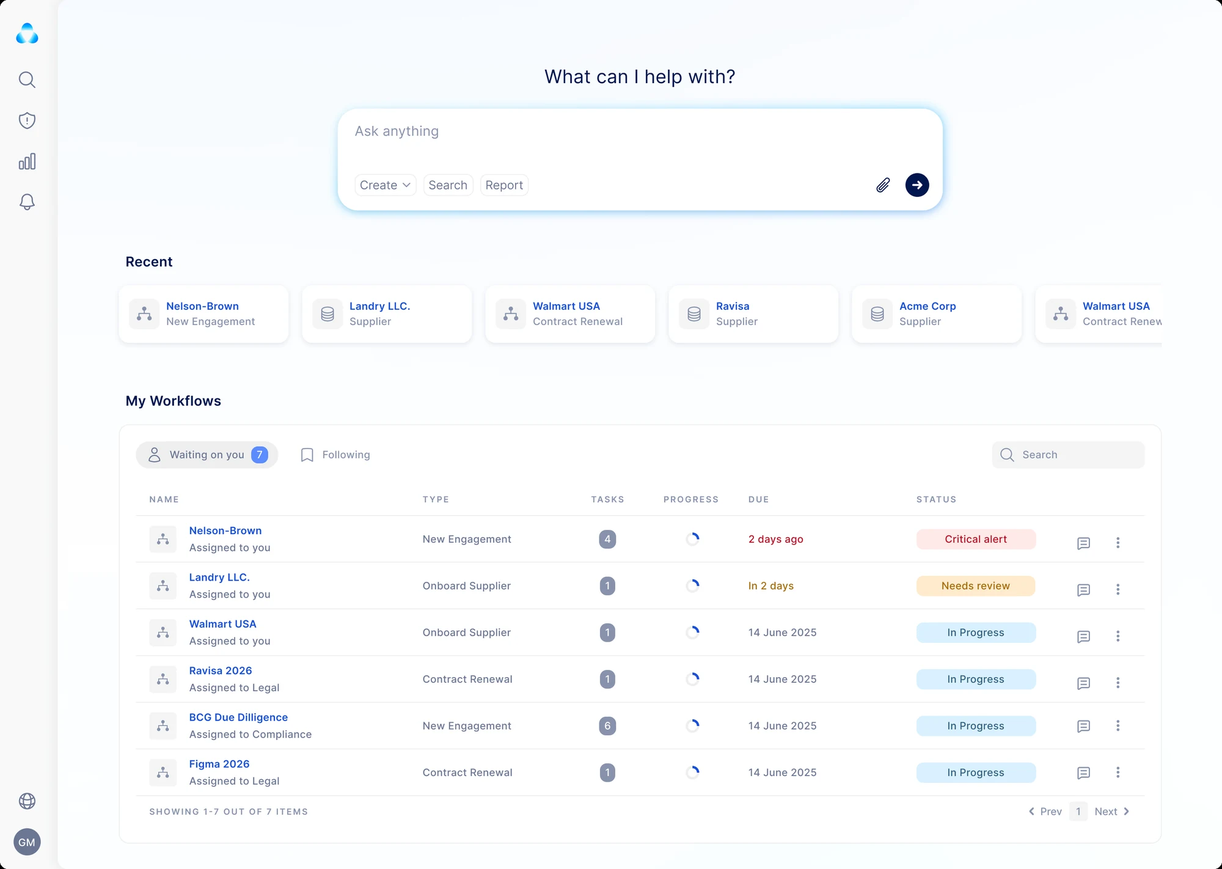
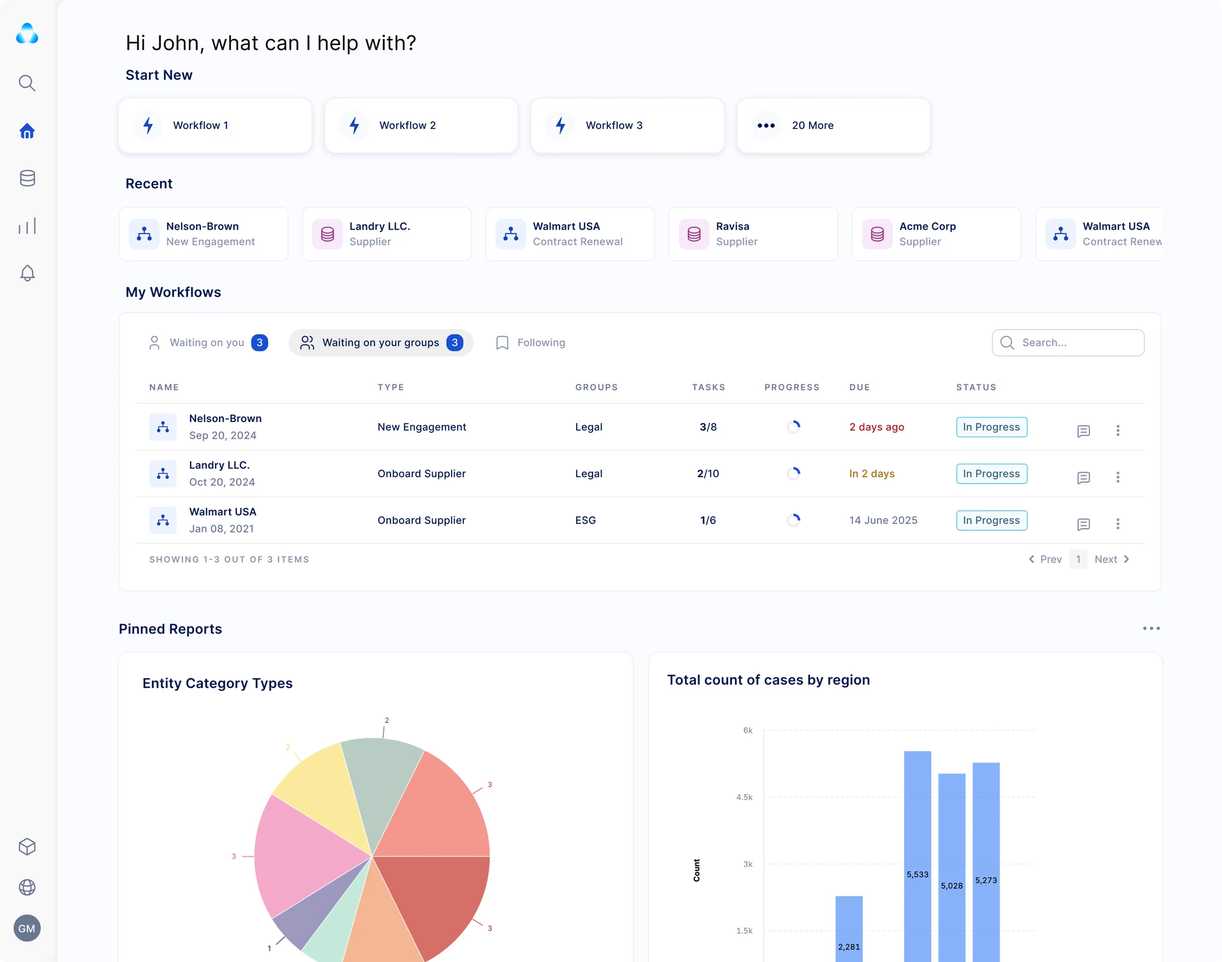
Replace Certa.ai Dashboard design
Claude-Session: https://claude.ai/code/session_01YTA3z88RNX2L7PgnX6PkBH

diff --git a/work.html b/work.html
@@ -40,7 +40,7 @@
 <meta name="twitter:title" content="Work — Ahila Pillai, Product &amp; Visual Designer">
 <meta name="twitter:description" content="Product and visual designer for startups: UX/UI for web and mobile apps, dashboards, pitch decks, brand identity, landing pages and motion for AI, SaaS, Web3 and fintech companies.">
 <meta name="twitter:image" content="https://madebyahila.com/og-image.jpg">
-<script type="application/ld+json">{"@context":"https://schema.org","@graph":[{"@type":"WebSite","@id":"https://madebyahila.com/#website","url":"https://madebyahila.com/","name":"Ahila Pillai — Product & Visual Designer","inLanguage":"en","publisher":{"@id":"https://madebyahila.com/#person"}},{"@type":"CollectionPage","@id":"https://madebyahila.com/work.html#page","url":"https://madebyahila.com/work.html","name":"Work — Ahila Pillai","isPartOf":{"@id":"https://madebyahila.com/#website"},"about":{"@id":"https://madebyahila.com/#person"},"mainEntity":{"@id":"https://madebyahila.com/#work"},"dateModified":"2026-11-09"},{"@type":"Person","@id":"https://madebyahila.com/#person","name":"Ahila Pillai","givenName":"Ahila","familyName":"Pillai","jobTitle":"Product & Visual Designer","url":"https://madebyahila.com/","image":"https://madebyahila.com/assets/ahila-pillai-illustrated-portrait.webp","email":"mailto:ahilapil.26@gmail.com","description":"Product and visual designer for startups. She designs web and mobile apps, dashboards, design systems, pitch decks, brand identities, landing pages and motion for AI, SaaS, Web3 and fintech companies, and has built her own AI apps.","address":{"@type":"PostalAddress","addressLocality":"Bengaluru","addressRegion":"Karnataka","addressCountry":"IN"},"knowsAbout":["Dashboard design","Mobile app design","UX/UI design","Product design","Visual design","Graphic design","Illustration","Motion design","Brand identity","Visual systems","Pitch deck design","Presentation design","Landing page design","Web design","Social media design","Web3","Fintech","AI startups","E-commerce","Figma","Adobe Photoshop","Adobe Illustrator","Design systems","SaaS","B2B SaaS","AI apps"],"sameAs":["https://x.com/ahilapillai","https://www.linkedin.com/in/ahilapillai","https://www.youtube.com/@ahilapillai7001"],"homeLocation":{"@type":"Place","name":"Bengaluru, India"},"hasOccupation":{"@type":"Occupation","name":"Product Designer","occupationLocation":{"@type":"City","name":"Bengaluru"},"skills":"UX/UI design, product design, design systems, visual design, branding, pitch decks, motion design"},"seeks":{"@type":"Demand","description":"Remote freelance, contract and part-time product design work with startups, especially B2B SaaS and AI companies."},"makesOffer":[{"@type":"Offer","itemOffered":{"@type":"Service","name":"Product and app design (web apps, dashboards, mobile apps)","provider":{"@id":"https://madebyahila.com/#person"},"areaServed":"Worldwide"}},{"@type":"Offer","itemOffered":{"@type":"Service","name":"UX/UI design and design systems","provider":{"@id":"https://madebyahila.com/#person"},"areaServed":"Worldwide"}},{"@type":"Offer","itemOffered":{"@type":"Service","name":"Pitch deck and presentation design","provider":{"@id":"https://madebyahila.com/#person"},"areaServed":"Worldwide"}},{"@type":"Offer","itemOffered":{"@type":"Service","name":"Brand identity and visual systems","provider":{"@id":"https://madebyahila.com/#person"},"areaServed":"Worldwide"}},{"@type":"Offer","itemOffered":{"@type":"Service","name":"Landing page and marketing website design","provider":{"@id":"https://madebyahila.com/#person"},"areaServed":"Worldwide"}},{"@type":"Offer","itemOffered":{"@type":"Service","name":"Social media and campaign design","provider":{"@id":"https://madebyahila.com/#person"},"areaServed":"Worldwide"}},{"@type":"Offer","itemOffered":{"@type":"Service","name":"Illustration and motion design","provider":{"@id":"https://madebyahila.com/#person"},"areaServed":"Worldwide"}}]},{"@type":"ItemList","@id":"https://madebyahila.com/#work","name":"Selected work by Ahila Pillai","numberOfItems":34,"itemListElement":[{"@type":"ListItem","item":{"@type":"CreativeWork","name":"Certa.ai - RiskAgent","description":"Certa.ai RiskAgent evaluation screen with overall risk rating and control assessment by risk domain","image":"https://madebyahila.com/assets/ai-risk-agent-evaluation-full.webp","creator":{"@id":"https://madebyahila.com/#person"},"genre":"Product and app design"},"position":1},{"@type":"ListItem","item":{"@type":"CreativeWork","name":"Certa.ai Dashboard","description":"Certa.ai dashboard with ask-anything prompt, recent records and a workflows table","image":"https://madebyahila.com/assets/ai-risk-workflow-dashboard-full.webp","creator":{"@id":"https://madebyahila.com/#person"},"genre":"Product and app design"},"position":2},{"@type":"ListItem","item":{"@type":"CreativeWork","name":"Saagas.ai","description":"Saagas.ai AI art creator web app with filters, controls and a colour picker","image":"https://madebyahila.com/assets/saagas-ai-art-creator-app-full.webp","creator":{"@id":"https://madebyahila.com/#person"},"genre":"Product and app design"},"position":3},{"@type":"ListItem","item":{"@type":"CreativeWork","name":"Persona Dashboard","description":"Persona advertiser dashboard with impressions chart and campaign table","image":"https://madebyahila.com/assets/persona-advertiser-dashboard-full.webp","creator":{"@id":"https://madebyahila.com/#person"},"genre":"Product and app design"},"position":4},{"@type":"ListItem","item":{"@type":"CreativeWork","name":"Kami Care Mobile App","description":"Kami Care fall detection mobile app: camera setup, alerts and care circle screens","image":"https://madebyahila.com/assets/kami-care-fall-detection-mobile-app-full.webp","creator":{"@id":"https://madebyahila.com/#person"},"genre":"Product and app design"},"position":5},{"@type":"ListItem","item":{"@type":"CreativeWork","name":"Karncy Fintech App","description":"Karncy fintech app Explore Deals screen for invoice investments","image":"https://madebyahila.com/assets/karncy-fintech-invoice-deals-app-full.webp","creator":{"@id":"https://madebyahila.com/#person"},"genre":"Product and app design"},"position":6},{"@type":"ListItem","position":7,"item":{"@type":"CreativeWork","name":"Pitch Deck","description":"Pitch deck slide with a cost-of-operations bar chart","image":"https://madebyahila.com/assets/pitch-deck.webp","creator":{"@id":"https://madebyahila.com/#person"},"genre":"Presentation design"}},{"@type":"ListItem","position":8,"item":{"@type":"CreativeWork","name":"Deck Redesign","description":"Redesigned deck slide for Lyzr, an enterprise AI agent platform","image":"https://madebyahila.com/assets/deck-redesign-lyzr-agent-platform.webp","creator":{"@id":"https://madebyahila.com/#person"},"genre":"Presentation design"}},{"@type":"ListItem","position":9,"item":{"@type":"CreativeWork","name":"Deck Redesign","description":"Redesigned deck slide on governing enterprise AI agents","image":"https://madebyahila.com/assets/deck-redesign-agent-governance.webp","creator":{"@id":"https://madebyahila.com/#person"},"genre":"Presentation design"}},{"@type":"ListItem","position":10,"item":{"@type":"CreativeWork","name":"Sales Enablement Deck","description":"CUBE3 sales enablement slide on Web3 smart contract security","image":"https://madebyahila.com/assets/sales-enablement-deck-cube3.webp","creator":{"@id":"https://madebyahila.com/#person"},"genre":"Presentation design"}},{"@type":"ListItem","position":11,"item":{"@type":"CreativeWork","name":"Persona — Platform Overview","description":"Persona Web3 native ads platform overview slide","image":"https://madebyahila.com/assets/persona-web3-ads-platform-overview-slide.webp","creator":{"@id":"https://madebyahila.com/#person"},"genre":"Presentation design"}},{"@type":"ListItem","position":12,"item":{"@type":"CreativeWork","name":"Krack’d Snacks × Pier 39.ai Case Study","description":"Krack’d Snacks and Pier 39.ai case study title slide","image":"https://madebyahila.com/assets/krackd-snacks-pier39-case-study-slide.webp","creator":{"@id":"https://madebyahila.com/#person"},"genre":"Presentation design"}},{"@type":"ListItem","position":13,"item":{"@type":"CreativeWork","name":"CUBE3 — Smart Firewall","description":"CUBE3 smart firewall implementation diagram slide","image":"https://madebyahila.com/assets/cube3-smart-firewall-implementation-slide.webp","creator":{"@id":"https://madebyahila.com/#person"},"genre":"Presentation design"}},{"@type":"ListItem","position":14,"item":{"@type":"CreativeWork","name":"Web3 Security Product Page","description":"CUBE3 Web3 transaction security product landing page","image":"https://madebyahila.com/assets/web3-security-product-page-cube3-full.webp","creator":{"@id":"https://madebyahila.com/#person"},"genre":"Landing page design"}},{"@type":"ListItem","position":15,"item":{"@type":"CreativeWork","name":"Ecom Ad Network Marketing Website","description":"Persona e-commerce ad network marketing website","image":"https://madebyahila.com/assets/ecom-ad-network-marketing-website-persona-full.webp","creator":{"@id":"https://madebyahila.com/#person"},"genre":"Landing page design"}},{"@type":"ListItem","position":16,"item":{"@type":"CreativeWork","name":"Shopify App Marketing Page","description":"Pier39.ai Shopify app marketing page","image":"https://madebyahila.com/assets/shopify-app-marketing-page-pier39-full.webp","creator":{"@id":"https://madebyahila.com/#person"},"genre":"Landing page design"}},{"@type":"ListItem","position":17,"item":{"@type":"CreativeWork","name":"Fintech App Landing Page","description":"mintIQ fintech investing app landing page","image":"https://madebyahila.com/assets/fintech-app-landing-page-mintiq-full.webp","creator":{"@id":"https://madebyahila.com/#person"},"genre":"Landing page design"}},{"@type":"ListItem","position":18,"item":{"@type":"CreativeWork","name":"Hyfit Games Pune fitness race poster showing the race course stations","image":"https://madebyahila.com/assets/hyfit-games-pune-fitness-race-poster.webp","creator":{"@id":"https://madebyahila.com/#person"},"genre":"Social media design"}},{"@type":"ListItem","position":19,"item":{"@type":"CreativeWork","name":"Opencontroller by Lyzr poster: Your AI agents. One control tower.","image":"https://madebyahila.com/assets/opencontroller-lyzr-ai-agents-poster.webp","creator":{"@id":"https://madebyahila.com/#person"},"genre":"Social media design"}},{"@type":"ListItem","position":20,"item":{"@type":"CreativeWork","name":"Pier39.ai social post inviting brands to get in touch about revenue metrics","image":"https://madebyahila.com/assets/pier39-ai-get-in-touch-social-post.webp","creator":{"@id":"https://madebyahila.com/#person"},"genre":"Social media design"}},{"@type":"ListItem","position":21,"item":{"@type":"CreativeWork","name":"Persona3 social post explaining its Web3 advertising platform","image":"https://madebyahila.com/assets/persona3-web3-ad-platform-social-post.webp","creator":{"@id":"https://madebyahila.com/#person"},"genre":"Social media design"}},{"@type":"ListItem","position":22,"item":{"@type":"CreativeWork","name":"Event poster for a Marketing and User Acquisition in Web3 session","image":"https://madebyahila.com/assets/marketing-user-acquisition-web3-event-poster.webp","creator":{"@id":"https://madebyahila.com/#person"},"genre":"Social media design"}},{"@type":"ListItem","position":23,"item":{"@type":"CreativeWork","name":"Father’s Day campaign post celebrating fathers in the parenthood journey","image":"https://madebyahila.com/assets/fathers-day-parenthood-campaign-post.webp","creator":{"@id":"https://madebyahila.com/#person"},"genre":"Social media design"}},{"@type":"ListItem","position":24,"item":{"@type":"CreativeWork","name":"Illustrated infographic on the benefits of prenatal yoga","image":"https://madebyahila.com/assets/benefits-of-prenatal-yoga-infographic.webp","creator":{"@id":"https://madebyahila.com/#person"},"genre":"Social media design"}},{"@type":"ListItem","position":25,"item":{"@type":"CreativeWork","name":"Playful social post: Little Miss found her mom friend today","image":"https://madebyahila.com/assets/little-miss-mom-friend-social-post.webp","creator":{"@id":"https://madebyahila.com/#person"},"genre":"Social media design"}},{"@type":"ListItem","position":26,"item":{"@type":"CreativeWork","name":"Carousel cover: 6 tips for a great heirloom conversation","image":"https://madebyahila.com/assets/tips-heirloom-conversation-carousel-cover.webp","creator":{"@id":"https://madebyahila.com/#person"},"genre":"Social media design"}},{"@type":"ListItem","position":27,"item":{"@type":"CreativeWork","name":"Awareness post: every 40 days a language ceases to be spoken","image":"https://madebyahila.com/assets/language-preservation-awareness-post.webp","creator":{"@id":"https://madebyahila.com/#person"},"genre":"Social media design"}},{"@type":"ListItem","position":28,"item":{"@type":"CreativeWork","name":"Paris Blockchain Week event social post","image":"https://madebyahila.com/assets/paris-blockchain-week-event-post.webp","creator":{"@id":"https://madebyahila.com/#person"},"genre":"Social media design"}},{"@type":"ListItem","position":29,"item":{"@type":"CreativeWork","name":"Hyfit Games course map poster for the fitness race","image":"https://madebyahila.com/assets/hyfit-games-course-map-poster.webp","creator":{"@id":"https://madebyahila.com/#person"},"genre":"Social media design"}},{"@type":"ListItem","position":30,"item":{"@type":"CreativeWork","name":"Webinar speaker announcement poster for a Web3 security session","image":"https://madebyahila.com/assets/web3-security-webinar-speaker-poster.webp","creator":{"@id":"https://madebyahila.com/#person"},"genre":"Social media design"}},{"@type":"ListItem","position":31,"item":{"@type":"VideoObject","name":"Show Reel 2025","description":"Illustrated character animation from Ahila Pillai’s 2025 motion show reel","thumbnailUrl":"https://madebyahila.com/assets/motion-show-reel-2025-thumb.webp","uploadDate":"2026-01-05","embedUrl":"https://www.youtube-nocookie.com/embed/uaK7CnmIo6I","contentUrl":"https://www.youtube.com/watch?v=uaK7CnmIo6I","creator":{"@id":"https://madebyahila.com/#person"}}},{"@type":"ListItem","position":32,"item":{"@type":"VideoObject","name":"AI Graphic Tool Demo Video","description":"Product demo animation for an AI graphic tool built on licensed datasets","thumbnailUrl":"https://madebyahila.com/assets/ai-graphic-tool-demo-video-thumb.webp","uploadDate":"2025-12-11","embedUrl":"https://www.youtube-nocookie.com/embed/e6jGGE6spak","contentUrl":"https://www.youtube.com/watch?v=e6jGGE6spak","creator":{"@id":"https://madebyahila.com/#person"}}},{"@type":"ListItem","position":33,"item":{"@type":"VideoObject","name":"Web3 Motion Graphics","description":"Web3 motion graphics showing on-chain user insights","thumbnailUrl":"https://madebyahila.com/assets/web3-motion-graphics-thumb.webp","uploadDate":"2025-12-08","embedUrl":"https://www.youtube-nocookie.com/embed/D5nF-y2BjnY","contentUrl":"https://www.youtube.com/watch?v=D5nF-y2BjnY","creator":{"@id":"https://madebyahila.com/#person"}}},{"@type":"ListItem","position":34,"item":{"@type":"VideoObject","name":"Shopify Animated Video Demo","description":"Animated demo of post-purchase offers for a Shopify app","thumbnailUrl":"https://madebyahila.com/assets/shopify-animated-video-demo-thumb.webp","uploadDate":"2025-12-08","embedUrl":"https://www.youtube-nocookie.com/embed/Y3TK_NBxz2M","contentUrl":"https://www.youtube.com/watch?v=Y3TK_NBxz2M","creator":{"@id":"https://madebyahila.com/#person"}}}]}]}</script>
+<script type="application/ld+json">{"@context":"https://schema.org","@graph":[{"@type":"WebSite","@id":"https://madebyahila.com/#website","url":"https://madebyahila.com/","name":"Ahila Pillai — Product & Visual Designer","inLanguage":"en","publisher":{"@id":"https://madebyahila.com/#person"}},{"@type":"CollectionPage","@id":"https://madebyahila.com/work.html#page","url":"https://madebyahila.com/work.html","name":"Work — Ahila Pillai","isPartOf":{"@id":"https://madebyahila.com/#website"},"about":{"@id":"https://madebyahila.com/#person"},"mainEntity":{"@id":"https://madebyahila.com/#work"},"dateModified":"2026-11-09"},{"@type":"Person","@id":"https://madebyahila.com/#person","name":"Ahila Pillai","givenName":"Ahila","familyName":"Pillai","jobTitle":"Product & Visual Designer","url":"https://madebyahila.com/","image":"https://madebyahila.com/assets/ahila-pillai-illustrated-portrait.webp","email":"mailto:ahilapil.26@gmail.com","description":"Product and visual designer for startups. She designs web and mobile apps, dashboards, design systems, pitch decks, brand identities, landing pages and motion for AI, SaaS, Web3 and fintech companies, and has built her own AI apps.","address":{"@type":"PostalAddress","addressLocality":"Bengaluru","addressRegion":"Karnataka","addressCountry":"IN"},"knowsAbout":["Dashboard design","Mobile app design","UX/UI design","Product design","Visual design","Graphic design","Illustration","Motion design","Brand identity","Visual systems","Pitch deck design","Presentation design","Landing page design","Web design","Social media design","Web3","Fintech","AI startups","E-commerce","Figma","Adobe Photoshop","Adobe Illustrator","Design systems","SaaS","B2B SaaS","AI apps"],"sameAs":["https://x.com/ahilapillai","https://www.linkedin.com/in/ahilapillai","https://www.youtube.com/@ahilapillai7001"],"homeLocation":{"@type":"Place","name":"Bengaluru, India"},"hasOccupation":{"@type":"Occupation","name":"Product Designer","occupationLocation":{"@type":"City","name":"Bengaluru"},"skills":"UX/UI design, product design, design systems, visual design, branding, pitch decks, motion design"},"seeks":{"@type":"Demand","description":"Remote freelance, contract and part-time product design work with startups, especially B2B SaaS and AI companies."},"makesOffer":[{"@type":"Offer","itemOffered":{"@type":"Service","name":"Product and app design (web apps, dashboards, mobile apps)","provider":{"@id":"https://madebyahila.com/#person"},"areaServed":"Worldwide"}},{"@type":"Offer","itemOffered":{"@type":"Service","name":"UX/UI design and design systems","provider":{"@id":"https://madebyahila.com/#person"},"areaServed":"Worldwide"}},{"@type":"Offer","itemOffered":{"@type":"Service","name":"Pitch deck and presentation design","provider":{"@id":"https://madebyahila.com/#person"},"areaServed":"Worldwide"}},{"@type":"Offer","itemOffered":{"@type":"Service","name":"Brand identity and visual systems","provider":{"@id":"https://madebyahila.com/#person"},"areaServed":"Worldwide"}},{"@type":"Offer","itemOffered":{"@type":"Service","name":"Landing page and marketing website design","provider":{"@id":"https://madebyahila.com/#person"},"areaServed":"Worldwide"}},{"@type":"Offer","itemOffered":{"@type":"Service","name":"Social media and campaign design","provider":{"@id":"https://madebyahila.com/#person"},"areaServed":"Worldwide"}},{"@type":"Offer","itemOffered":{"@type":"Service","name":"Illustration and motion design","provider":{"@id":"https://madebyahila.com/#person"},"areaServed":"Worldwide"}}]},{"@type":"ItemList","@id":"https://madebyahila.com/#work","name":"Selected work by Ahila Pillai","numberOfItems":34,"itemListElement":[{"@type":"ListItem","item":{"@type":"CreativeWork","name":"Certa.ai - RiskAgent","description":"Certa.ai RiskAgent evaluation screen with overall risk rating and control assessment by risk domain","image":"https://madebyahila.com/assets/ai-risk-agent-evaluation-full.webp","creator":{"@id":"https://madebyahila.com/#person"},"genre":"Product and app design"},"position":1},{"@type":"ListItem","item":{"@type":"CreativeWork","name":"Certa.ai Dashboard","description":"Certa.ai dashboard with quick-start workflows, recent records, a workflows table and pinned reports","image":"https://madebyahila.com/assets/ai-risk-workflow-dashboard-full.webp","creator":{"@id":"https://madebyahila.com/#person"},"genre":"Product and app design"},"position":2},{"@type":"ListItem","item":{"@type":"CreativeWork","name":"Saagas.ai","description":"Saagas.ai AI art creator web app with filters, controls and a colour picker","image":"https://madebyahila.com/assets/saagas-ai-art-creator-app-full.webp","creator":{"@id":"https://madebyahila.com/#person"},"genre":"Product and app design"},"position":3},{"@type":"ListItem","item":{"@type":"CreativeWork","name":"Persona Dashboard","description":"Persona advertiser dashboard with impressions chart and campaign table","image":"https://madebyahila.com/assets/persona-advertiser-dashboard-full.webp","creator":{"@id":"https://madebyahila.com/#person"},"genre":"Product and app design"},"position":4},{"@type":"ListItem","item":{"@type":"CreativeWork","name":"Kami Care Mobile App","description":"Kami Care fall detection mobile app: camera setup, alerts and care circle screens","image":"https://madebyahila.com/assets/kami-care-fall-detection-mobile-app-full.webp","creator":{"@id":"https://madebyahila.com/#person"},"genre":"Product and app design"},"position":5},{"@type":"ListItem","item":{"@type":"CreativeWork","name":"Karncy Fintech App","description":"Karncy fintech app Explore Deals screen for invoice investments","image":"https://madebyahila.com/assets/karncy-fintech-invoice-deals-app-full.webp","creator":{"@id":"https://madebyahila.com/#person"},"genre":"Product and app design"},"position":6},{"@type":"ListItem","position":7,"item":{"@type":"CreativeWork","name":"Pitch Deck","description":"Pitch deck slide with a cost-of-operations bar chart","image":"https://madebyahila.com/assets/pitch-deck.webp","creator":{"@id":"https://madebyahila.com/#person"},"genre":"Presentation design"}},{"@type":"ListItem","position":8,"item":{"@type":"CreativeWork","name":"Deck Redesign","description":"Redesigned deck slide for Lyzr, an enterprise AI agent platform","image":"https://madebyahila.com/assets/deck-redesign-lyzr-agent-platform.webp","creator":{"@id":"https://madebyahila.com/#person"},"genre":"Presentation design"}},{"@type":"ListItem","position":9,"item":{"@type":"CreativeWork","name":"Deck Redesign","description":"Redesigned deck slide on governing enterprise AI agents","image":"https://madebyahila.com/assets/deck-redesign-agent-governance.webp","creator":{"@id":"https://madebyahila.com/#person"},"genre":"Presentation design"}},{"@type":"ListItem","position":10,"item":{"@type":"CreativeWork","name":"Sales Enablement Deck","description":"CUBE3 sales enablement slide on Web3 smart contract security","image":"https://madebyahila.com/assets/sales-enablement-deck-cube3.webp","creator":{"@id":"https://madebyahila.com/#person"},"genre":"Presentation design"}},{"@type":"ListItem","position":11,"item":{"@type":"CreativeWork","name":"Persona — Platform Overview","description":"Persona Web3 native ads platform overview slide","image":"https://madebyahila.com/assets/persona-web3-ads-platform-overview-slide.webp","creator":{"@id":"https://madebyahila.com/#person"},"genre":"Presentation design"}},{"@type":"ListItem","position":12,"item":{"@type":"CreativeWork","name":"Krack’d Snacks × Pier 39.ai Case Study","description":"Krack’d Snacks and Pier 39.ai case study title slide","image":"https://madebyahila.com/assets/krackd-snacks-pier39-case-study-slide.webp","creator":{"@id":"https://madebyahila.com/#person"},"genre":"Presentation design"}},{"@type":"ListItem","position":13,"item":{"@type":"CreativeWork","name":"CUBE3 — Smart Firewall","description":"CUBE3 smart firewall implementation diagram slide","image":"https://madebyahila.com/assets/cube3-smart-firewall-implementation-slide.webp","creator":{"@id":"https://madebyahila.com/#person"},"genre":"Presentation design"}},{"@type":"ListItem","position":14,"item":{"@type":"CreativeWork","name":"Web3 Security Product Page","description":"CUBE3 Web3 transaction security product landing page","image":"https://madebyahila.com/assets/web3-security-product-page-cube3-full.webp","creator":{"@id":"https://madebyahila.com/#person"},"genre":"Landing page design"}},{"@type":"ListItem","position":15,"item":{"@type":"CreativeWork","name":"Ecom Ad Network Marketing Website","description":"Persona e-commerce ad network marketing website","image":"https://madebyahila.com/assets/ecom-ad-network-marketing-website-persona-full.webp","creator":{"@id":"https://madebyahila.com/#person"},"genre":"Landing page design"}},{"@type":"ListItem","position":16,"item":{"@type":"CreativeWork","name":"Shopify App Marketing Page","description":"Pier39.ai Shopify app marketing page","image":"https://madebyahila.com/assets/shopify-app-marketing-page-pier39-full.webp","creator":{"@id":"https://madebyahila.com/#person"},"genre":"Landing page design"}},{"@type":"ListItem","position":17,"item":{"@type":"CreativeWork","name":"Fintech App Landing Page","description":"mintIQ fintech investing app landing page","image":"https://madebyahila.com/assets/fintech-app-landing-page-mintiq-full.webp","creator":{"@id":"https://madebyahila.com/#person"},"genre":"Landing page design"}},{"@type":"ListItem","position":18,"item":{"@type":"CreativeWork","name":"Hyfit Games Pune fitness race poster showing the race course stations","image":"https://madebyahila.com/assets/hyfit-games-pune-fitness-race-poster.webp","creator":{"@id":"https://madebyahila.com/#person"},"genre":"Social media design"}},{"@type":"ListItem","position":19,"item":{"@type":"CreativeWork","name":"Opencontroller by Lyzr poster: Your AI agents. One control tower.","image":"https://madebyahila.com/assets/opencontroller-lyzr-ai-agents-poster.webp","creator":{"@id":"https://madebyahila.com/#person"},"genre":"Social media design"}},{"@type":"ListItem","position":20,"item":{"@type":"CreativeWork","name":"Pier39.ai social post inviting brands to get in touch about revenue metrics","image":"https://madebyahila.com/assets/pier39-ai-get-in-touch-social-post.webp","creator":{"@id":"https://madebyahila.com/#person"},"genre":"Social media design"}},{"@type":"ListItem","position":21,"item":{"@type":"CreativeWork","name":"Persona3 social post explaining its Web3 advertising platform","image":"https://madebyahila.com/assets/persona3-web3-ad-platform-social-post.webp","creator":{"@id":"https://madebyahila.com/#person"},"genre":"Social media design"}},{"@type":"ListItem","position":22,"item":{"@type":"CreativeWork","name":"Event poster for a Marketing and User Acquisition in Web3 session","image":"https://madebyahila.com/assets/marketing-user-acquisition-web3-event-poster.webp","creator":{"@id":"https://madebyahila.com/#person"},"genre":"Social media design"}},{"@type":"ListItem","position":23,"item":{"@type":"CreativeWork","name":"Father’s Day campaign post celebrating fathers in the parenthood journey","image":"https://madebyahila.com/assets/fathers-day-parenthood-campaign-post.webp","creator":{"@id":"https://madebyahila.com/#person"},"genre":"Social media design"}},{"@type":"ListItem","position":24,"item":{"@type":"CreativeWork","name":"Illustrated infographic on the benefits of prenatal yoga","image":"https://madebyahila.com/assets/benefits-of-prenatal-yoga-infographic.webp","creator":{"@id":"https://madebyahila.com/#person"},"genre":"Social media design"}},{"@type":"ListItem","position":25,"item":{"@type":"CreativeWork","name":"Playful social post: Little Miss found her mom friend today","image":"https://madebyahila.com/assets/little-miss-mom-friend-social-post.webp","creator":{"@id":"https://madebyahila.com/#person"},"genre":"Social media design"}},{"@type":"ListItem","position":26,"item":{"@type":"CreativeWork","name":"Carousel cover: 6 tips for a great heirloom conversation","image":"https://madebyahila.com/assets/tips-heirloom-conversation-carousel-cover.webp","creator":{"@id":"https://madebyahila.com/#person"},"genre":"Social media design"}},{"@type":"ListItem","position":27,"item":{"@type":"CreativeWork","name":"Awareness post: every 40 days a language ceases to be spoken","image":"https://madebyahila.com/assets/language-preservation-awareness-post.webp","creator":{"@id":"https://madebyahila.com/#person"},"genre":"Social media design"}},{"@type":"ListItem","position":28,"item":{"@type":"CreativeWork","name":"Paris Blockchain Week event social post","image":"https://madebyahila.com/assets/paris-blockchain-week-event-post.webp","creator":{"@id":"https://madebyahila.com/#person"},"genre":"Social media design"}},{"@type":"ListItem","position":29,"item":{"@type":"CreativeWork","name":"Hyfit Games course map poster for the fitness race","image":"https://madebyahila.com/assets/hyfit-games-course-map-poster.webp","creator":{"@id":"https://madebyahila.com/#person"},"genre":"Social media design"}},{"@type":"ListItem","position":30,"item":{"@type":"CreativeWork","name":"Webinar speaker announcement poster for a Web3 security session","image":"https://madebyahila.com/assets/web3-security-webinar-speaker-poster.webp","creator":{"@id":"https://madebyahila.com/#person"},"genre":"Social media design"}},{"@type":"ListItem","position":31,"item":{"@type":"VideoObject","name":"Show Reel 2025","description":"Illustrated character animation from Ahila Pillai’s 2025 motion show reel","thumbnailUrl":"https://madebyahila.com/assets/motion-show-reel-2025-thumb.webp","uploadDate":"2026-01-05","embedUrl":"https://www.youtube-nocookie.com/embed/uaK7CnmIo6I","contentUrl":"https://www.youtube.com/watch?v=uaK7CnmIo6I","creator":{"@id":"https://madebyahila.com/#person"}}},{"@type":"ListItem","position":32,"item":{"@type":"VideoObject","name":"AI Graphic Tool Demo Video","description":"Product demo animation for an AI graphic tool built on licensed datasets","thumbnailUrl":"https://madebyahila.com/assets/ai-graphic-tool-demo-video-thumb.webp","uploadDate":"2025-12-11","embedUrl":"https://www.youtube-nocookie.com/embed/e6jGGE6spak","contentUrl":"https://www.youtube.com/watch?v=e6jGGE6spak","creator":{"@id":"https://madebyahila.com/#person"}}},{"@type":"ListItem","position":33,"item":{"@type":"VideoObject","name":"Web3 Motion Graphics","description":"Web3 motion graphics showing on-chain user insights","thumbnailUrl":"https://madebyahila.com/assets/web3-motion-graphics-thumb.webp","uploadDate":"2025-12-08","embedUrl":"https://www.youtube-nocookie.com/embed/D5nF-y2BjnY","contentUrl":"https://www.youtube.com/watch?v=D5nF-y2BjnY","creator":{"@id":"https://madebyahila.com/#person"}}},{"@type":"ListItem","position":34,"item":{"@type":"VideoObject","name":"Shopify Animated Video Demo","description":"Animated demo of post-purchase offers for a Shopify app","thumbnailUrl":"https://madebyahila.com/assets/shopify-animated-video-demo-thumb.webp","uploadDate":"2025-12-08","embedUrl":"https://www.youtube-nocookie.com/embed/Y3TK_NBxz2M","contentUrl":"https://www.youtube.com/watch?v=Y3TK_NBxz2M","creator":{"@id":"https://madebyahila.com/#person"}}}]}]}</script>
 <link rel="preconnect" href="https://fonts.googleapis.com">
 <link rel="preconnect" href="https://fonts.gstatic.com" crossorigin>
 <link href="https://fonts.googleapis.com/css2?family=Inter:wght@400;500;600&display=swap" rel="stylesheet">
@@ -297,7 +297,7 @@ footer.sunset .foot-bottom small{color:var(--mute);font-size:13px}
       <h2 id="h-product">Product &amp; App Design</h2>
       <p>Mobile apps, web apps and product flows for startups, designed from first idea to launch.</p>
     </div>
-    <div class="grid"><figure class="card"><button type="button" data-title="Certa.ai - RiskAgent" data-full="assets/ai-risk-agent-evaluation-full.webp" aria-label="Open Certa.ai - RiskAgent"><img src="assets/ai-risk-agent-evaluation-thumb.webp" alt="Certa.ai RiskAgent evaluation screen with overall risk rating and control assessment by risk domain" loading="lazy" decoding="async" width="1256" height="880"><span class="hint">View design</span></button><figcaption>Certa.ai - RiskAgent</figcaption></figure><figure class="card"><button type="button" data-title="Certa.ai Dashboard" data-full="assets/ai-risk-workflow-dashboard-full.webp" aria-label="Open Certa.ai Dashboard"><img src="assets/ai-risk-workflow-dashboard-thumb.webp" alt="Certa.ai dashboard with ask-anything prompt, recent records and a workflows table" loading="lazy" decoding="async" width="1256" height="880"><span class="hint">View design</span></button><figcaption>Certa.ai Dashboard</figcaption></figure><figure class="card"><button type="button" data-title="Saagas.ai" data-full="assets/saagas-ai-art-creator-app-full.webp" aria-label="Open Saagas.ai"><img src="assets/saagas-ai-art-creator-app-thumb.webp" alt="Saagas.ai AI art creator web app with filters, controls and a colour picker" loading="lazy" decoding="async" width="1256" height="880"><span class="hint">View design</span></button><figcaption>Saagas.ai</figcaption></figure><figure class="card"><button type="button" data-title="Persona Dashboard" data-full="assets/persona-advertiser-dashboard-full.webp" aria-label="Open Persona Dashboard"><img src="assets/persona-advertiser-dashboard-thumb.webp" alt="Persona advertiser dashboard with impressions chart and campaign table" loading="lazy" decoding="async" width="1256" height="880"><span class="hint">View design</span></button><figcaption>Persona Dashboard</figcaption></figure><figure class="card"><button type="button" data-title="Kami Care Mobile App" data-full="assets/kami-care-fall-detection-mobile-app-full.webp" aria-label="Open Kami Care Mobile App"><img src="assets/kami-care-fall-detection-mobile-app-thumb.webp" alt="Kami Care fall detection mobile app: camera setup, alerts and care circle screens" loading="lazy" decoding="async" width="1256" height="880"><span class="hint">View design</span></button><figcaption>Kami Care Mobile App</figcaption></figure><figure class="card"><button type="button" data-title="Karncy Fintech App" data-full="assets/karncy-fintech-invoice-deals-app-full.webp" aria-label="Open Karncy Fintech App"><img src="assets/karncy-fintech-invoice-deals-app-thumb.webp" alt="Karncy fintech app Explore Deals screen for invoice investments" loading="lazy" decoding="async" width="1256" height="880"><span class="hint">View design</span></button><figcaption>Karncy Fintech App</figcaption></figure></div>
+    <div class="grid"><figure class="card"><button type="button" data-title="Certa.ai - RiskAgent" data-full="assets/ai-risk-agent-evaluation-full.webp" aria-label="Open Certa.ai - RiskAgent"><img src="assets/ai-risk-agent-evaluation-thumb.webp" alt="Certa.ai RiskAgent evaluation screen with overall risk rating and control assessment by risk domain" loading="lazy" decoding="async" width="1256" height="880"><span class="hint">View design</span></button><figcaption>Certa.ai - RiskAgent</figcaption></figure><figure class="card"><button type="button" data-title="Certa.ai Dashboard" data-full="assets/ai-risk-workflow-dashboard-full.webp" aria-label="Open Certa.ai Dashboard"><img src="assets/ai-risk-workflow-dashboard-thumb.webp" alt="Certa.ai dashboard with quick-start workflows, recent records, a workflows table and pinned reports" loading="lazy" decoding="async" width="1256" height="880"><span class="hint">View design</span></button><figcaption>Certa.ai Dashboard</figcaption></figure><figure class="card"><button type="button" data-title="Saagas.ai" data-full="assets/saagas-ai-art-creator-app-full.webp" aria-label="Open Saagas.ai"><img src="assets/saagas-ai-art-creator-app-thumb.webp" alt="Saagas.ai AI art creator web app with filters, controls and a colour picker" loading="lazy" decoding="async" width="1256" height="880"><span class="hint">View design</span></button><figcaption>Saagas.ai</figcaption></figure><figure class="card"><button type="button" data-title="Persona Dashboard" data-full="assets/persona-advertiser-dashboard-full.webp" aria-label="Open Persona Dashboard"><img src="assets/persona-advertiser-dashboard-thumb.webp" alt="Persona advertiser dashboard with impressions chart and campaign table" loading="lazy" decoding="async" width="1256" height="880"><span class="hint">View design</span></button><figcaption>Persona Dashboard</figcaption></figure><figure class="card"><button type="button" data-title="Kami Care Mobile App" data-full="assets/kami-care-fall-detection-mobile-app-full.webp" aria-label="Open Kami Care Mobile App"><img src="assets/kami-care-fall-detection-mobile-app-thumb.webp" alt="Kami Care fall detection mobile app: camera setup, alerts and care circle screens" loading="lazy" decoding="async" width="1256" height="880"><span class="hint">View design</span></button><figcaption>Kami Care Mobile App</figcaption></figure><figure class="card"><button type="button" data-title="Karncy Fintech App" data-full="assets/karncy-fintech-invoice-deals-app-full.webp" aria-label="Open Karncy Fintech App"><img src="assets/karncy-fintech-invoice-deals-app-thumb.webp" alt="Karncy fintech app Explore Deals screen for invoice investments" loading="lazy" decoding="async" width="1256" height="880"><span class="hint">View design</span></button><figcaption>Karncy Fintech App</figcaption></figure></div>
   </section>
 
   <section class="wrap work motion-work" id="motion" aria-labelledby="h-motion">
